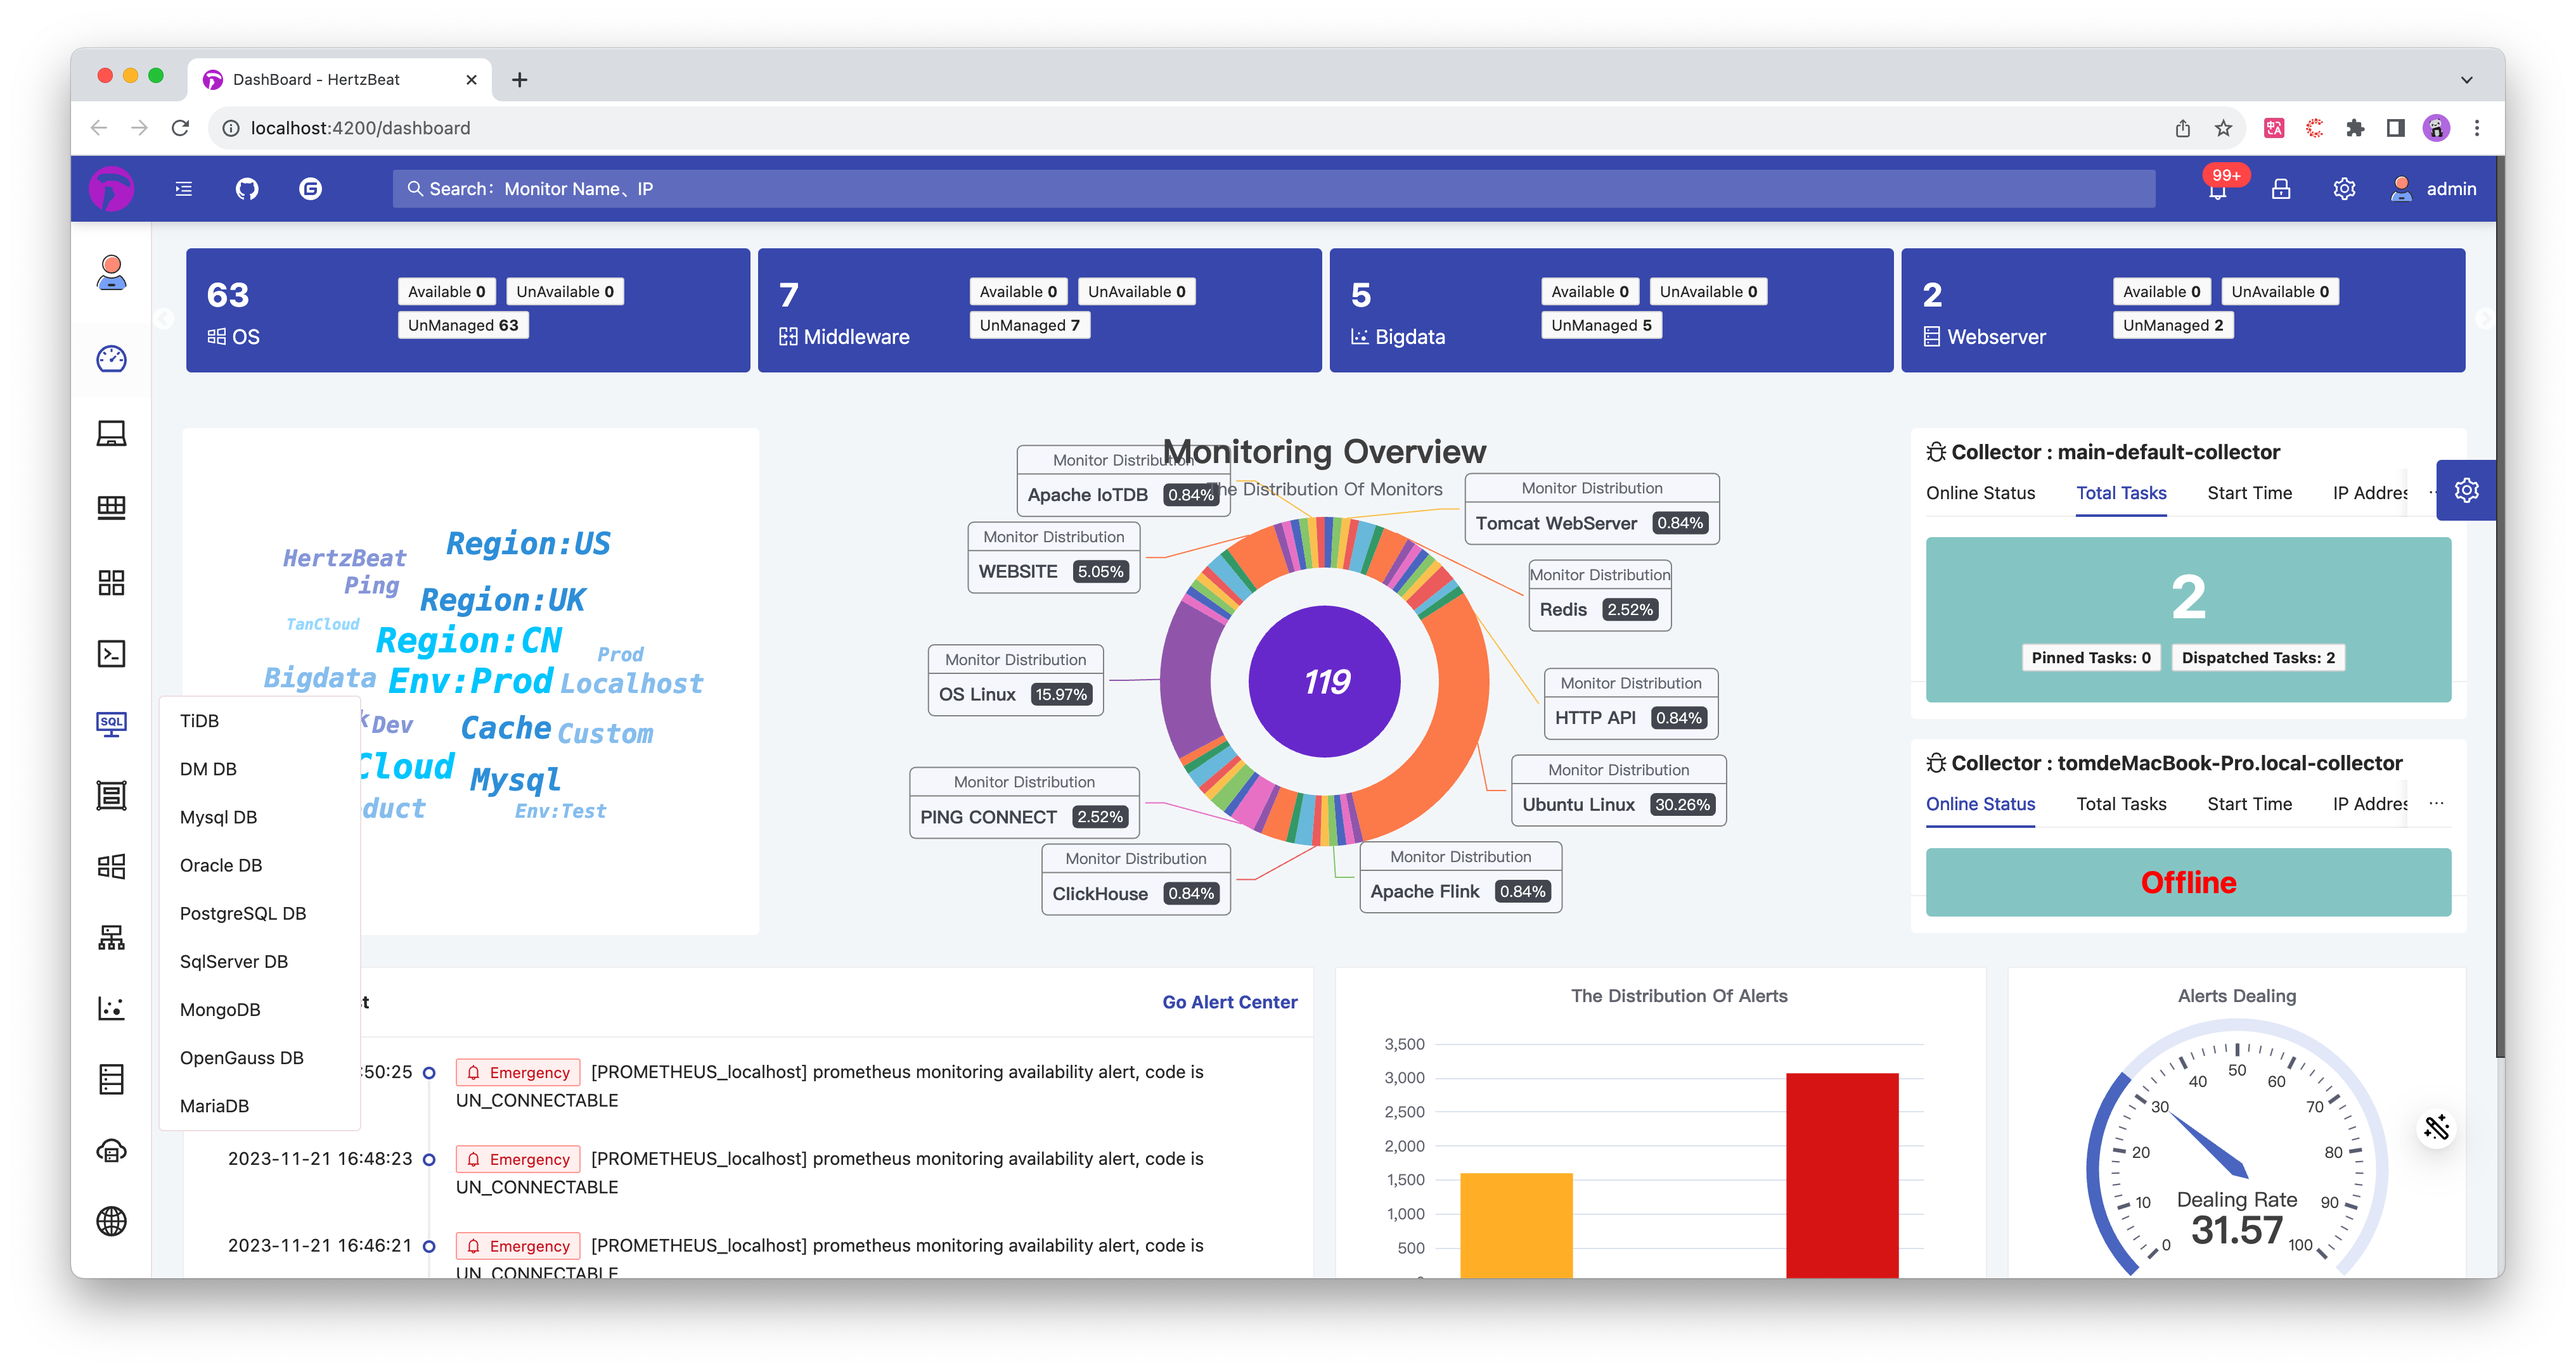
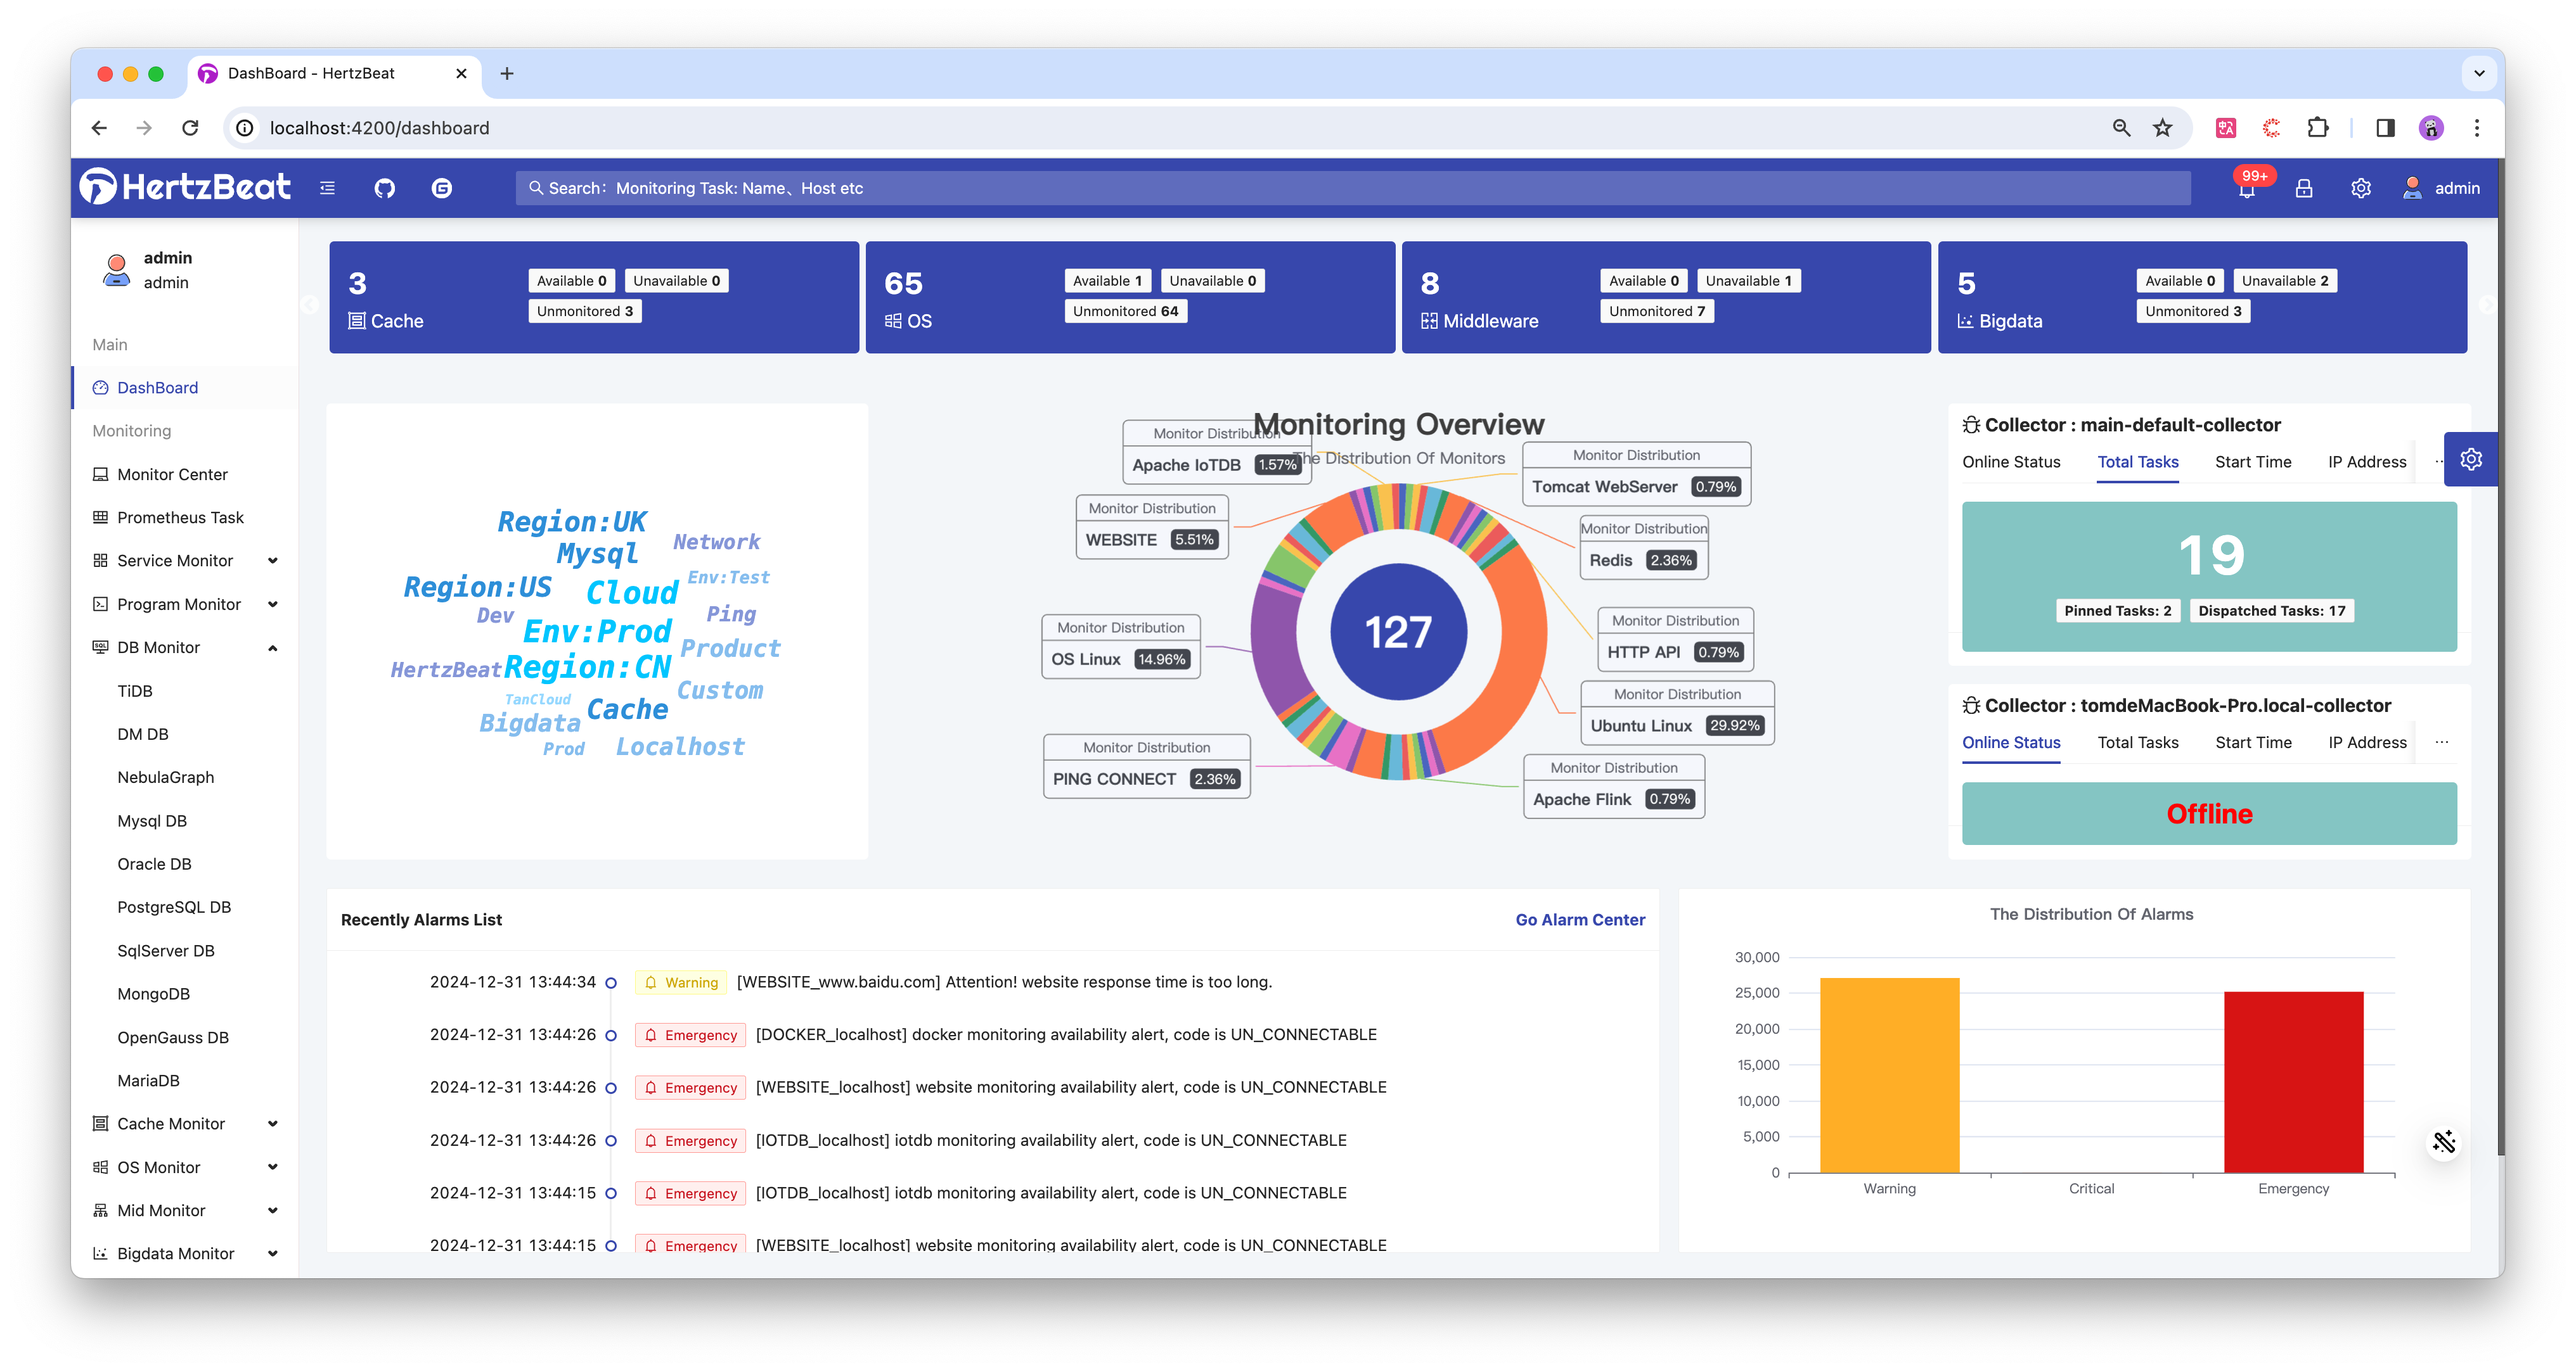
update dashboard ui, remove ssh custom SignatureFactories, update app name

diff --git a/web-app/src/app/routes/dashboard/dashboard.component.ts b/web-app/src/app/routes/dashboard/dashboard.component.ts
@@ -540,7 +540,7 @@ export class DashboardComponent implements OnInit, OnDestroy {
   alertsDealLoading: boolean = true;
 
   refreshAlertContentList(): void {
-    let alertsInit$ = this.alertSvc.loadAlerts(undefined, undefined, undefined, 0, 4).subscribe(
+    let alertsInit$ = this.alertSvc.loadAlerts(undefined, undefined, undefined, 0, 10).subscribe(
       message => {
         if (message.code === 0) {
           let page = message.data;
